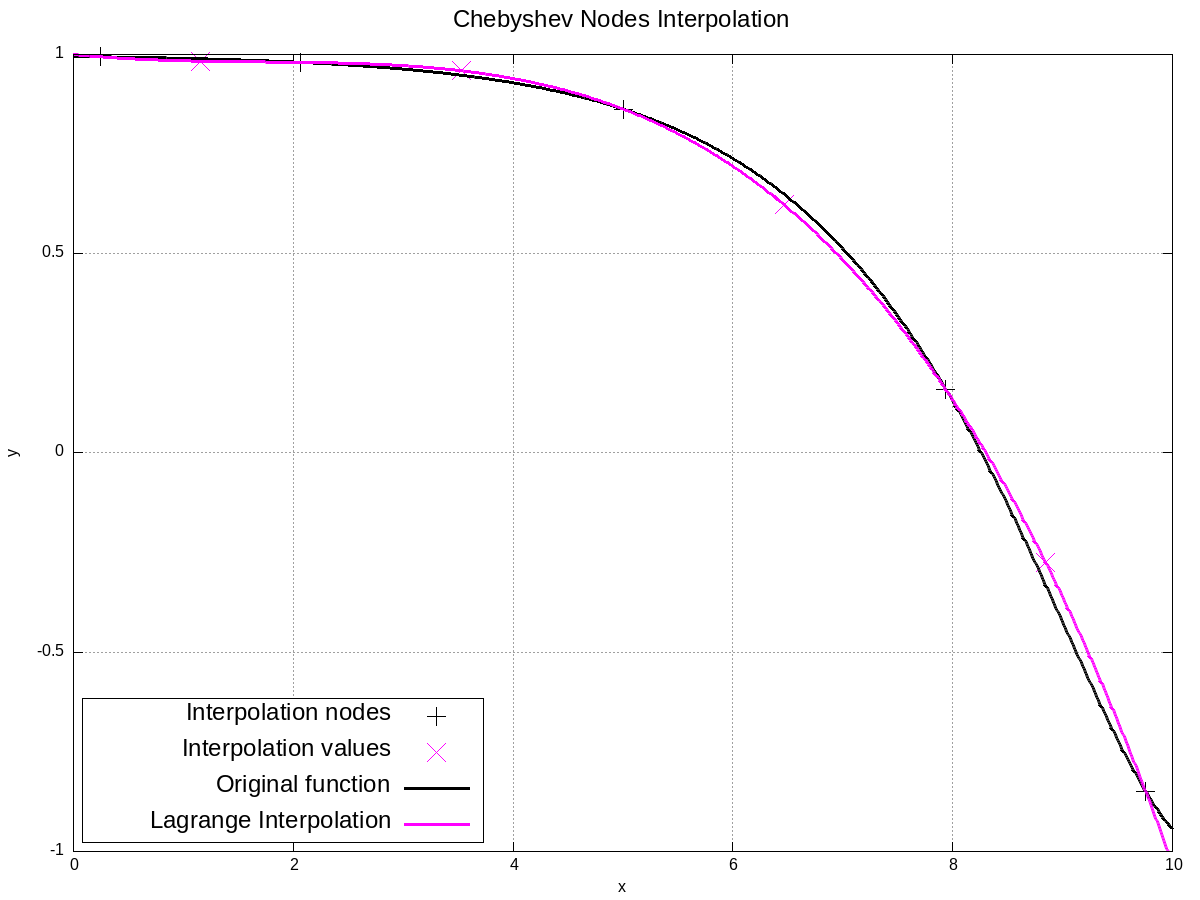
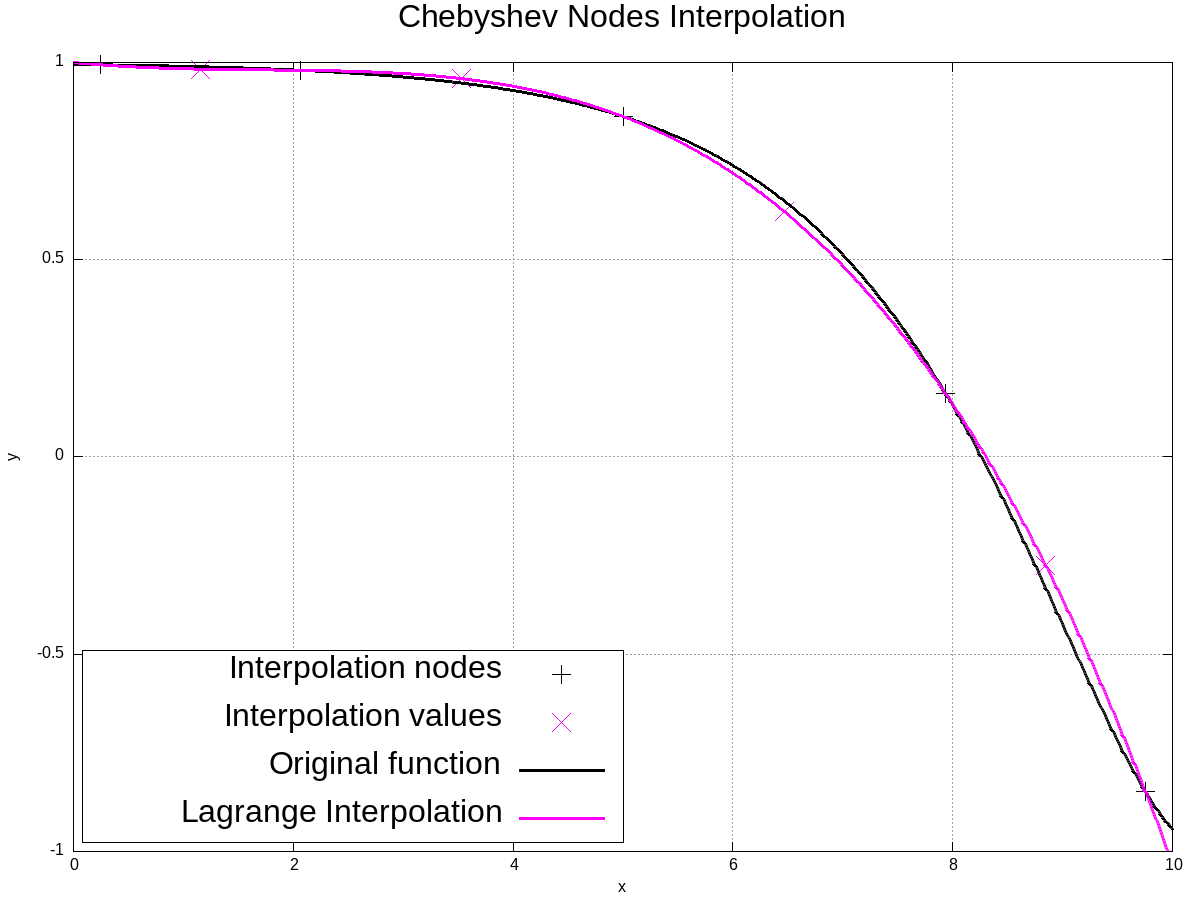
Plots font sizes

diff --git a/cpp/src/plotting.cpp b/cpp/src/plotting.cpp
@@ -44,10 +44,10 @@ void plotResults(const std::vector<double>& x_nodes, const std::vector<double>& 
                << "set ylabel 'y'\n"
                << "set grid\n"
                << "set key left bottom box\n"
-               << "set key font ',18'\n"
+               << "set key font ',24'\n"
                << "set key spacing 1.5\n";
     if (title != "")
-        scriptFile << "set title '" << title << "' font ',18'\n";
+        scriptFile << "set title '" << title << "' font ',24'\n";
     if (xrange != "")
         scriptFile << "set xrange " + xrange + "\n";
     if (yrange != "")
